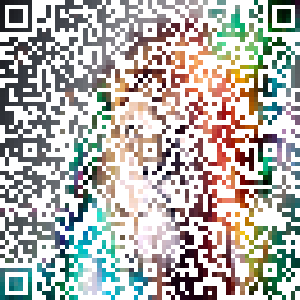
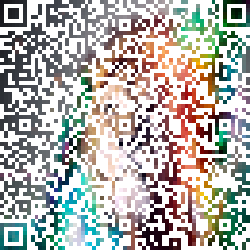
fix pic

Changed region(s): [[0.0, 0.0, 1.0, 1.0], [0.616, 0.952, 0.784, 1.0], [0.42, 0.644, 0.448, 0.672]]

diff --git a/test.py b/test.py
@@ -1,20 +1,20 @@
 from qsqrcode.qrcode import Qrcode
 
 qr = Qrcode('https://blog.aikeji.online/2018/10/16/%E4%BA%8C%E7%BB%B4%E7%A0%81%E7%94%9F%E6%88%90%E5%8E%9F%E7%90%86%E5%8F%8A%E7%BC%96%E7%A0%81%E5%AE%9E%E7%8E%B0/', 'H')
-qr.paint('pic/test.jpg').resize(280).generate('testpic/test0.png')
+qr.paint('pic/test.jpg').resize(250).generate('testpic/test0.png')
 
 qr = Qrcode('https://blog.aikeji.online/2018/10/16/%E4%BA%8C%E7%BB%B4%E7%A0%81%E7%94%9F%E6%88%90%E5%8E%9F%E7%90%86%E5%8F%8A%E7%BC%96%E7%A0%81%E5%AE%9E%E7%8E%B0/', 'H')
-qr.paint('pic/test.jpg', 1).resize(280).generate('testpic/test1.png')
+qr.paint('pic/test.jpg', 1).resize(250).generate('testpic/test1.png')
 
 qr = Qrcode('https://blog.aikeji.online/2018/10/16/%E4%BA%8C%E7%BB%B4%E7%A0%81%E7%94%9F%E6%88%90%E5%8E%9F%E7%90%86%E5%8F%8A%E7%BC%96%E7%A0%81%E5%AE%9E%E7%8E%B0/', 'H')
-qr.colour((199, 29, 69)).resize(280).generate('testpic/test2.png')
+qr.colour((199, 29, 69)).resize(250).generate('testpic/test2.png')
 
 qr = Qrcode('https://blog.aikeji.online/2018/10/16/%E4%BA%8C%E7%BB%B4%E7%A0%81%E7%94%9F%E6%88%90%E5%8E%9F%E7%90%86%E5%8F%8A%E7%BC%96%E7%A0%81%E5%AE%9E%E7%8E%B0/', 'H')
-qr.colour(None, (199, 29, 69)).resize(280).generate('testpic/test3.png')
+qr.colour(None, (199, 29, 69)).resize(250).generate('testpic/test3.png')
 
 qr = Qrcode('https://blog.aikeji.online/2018/10/16/%E4%BA%8C%E7%BB%B4%E7%A0%81%E7%94%9F%E6%88%90%E5%8E%9F%E7%90%86%E5%8F%8A%E7%BC%96%E7%A0%81%E5%AE%9E%E7%8E%B0/', 'H')
-qr.resize(280).generate('testpic/test4.png')
+qr.resize(250).generate('testpic/test4.png')
 
 qr = Qrcode('日本では「ノストラダムスの大予言」の名で知られる詩集を著した。彼の予言は、現在に至るまで多くの信奉者を生み出し、様々な論争を引き起こし다양한 사전 콘텐츠 제공, 발음듣기, 중국어 필기인식기, 보조사전, 내가 찾은 단어 제공', 'H')
-qr.resize(280).generate('testpic/test5.png')
+qr.resize(250).generate('testpic/test5.png')
 
